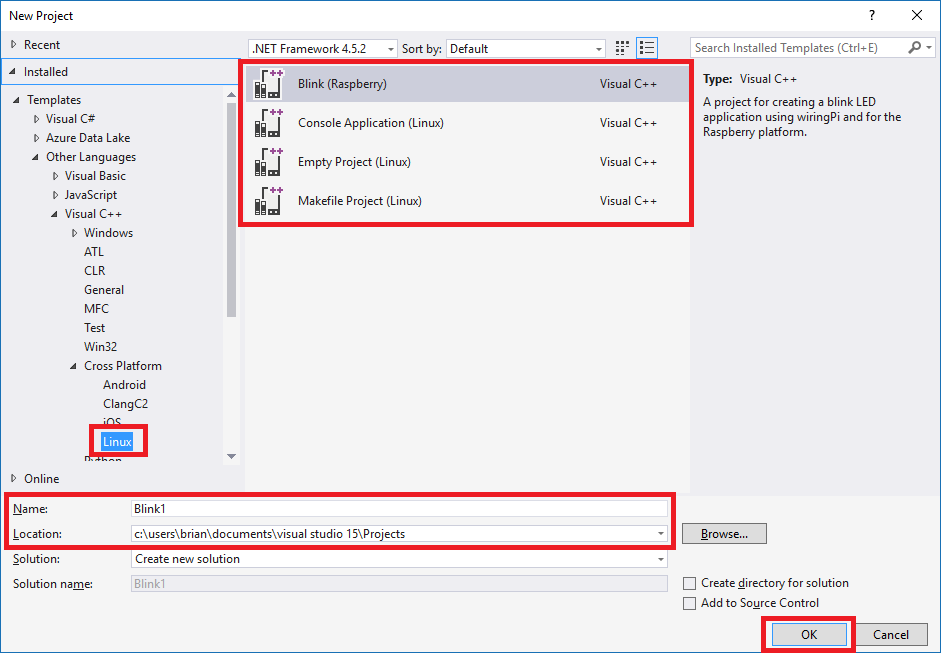
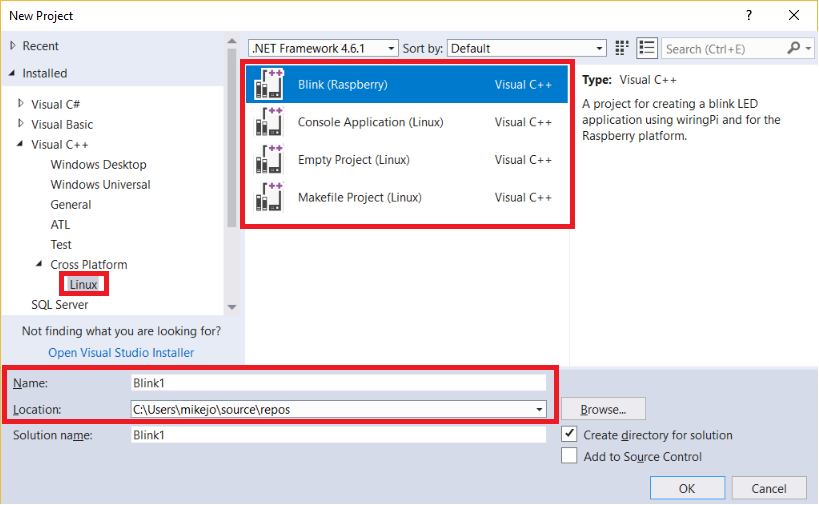
fixed outdated screenshot, instruction for linux tools

diff --git a/docs/linux/create-a-new-linux-project.md b/docs/linux/create-a-new-linux-project.md
@@ -1,7 +1,7 @@
 ---
 title: "Create a New Linux Project | Microsoft Docs"
 ms.custom: ""
-ms.date: "11/16/2016"
+ms.date: "08/16/2017"
 ms.reviewer: ""
 ms.suite: ""
 ms.technology:  
@@ -33,7 +33,7 @@ translation.priority.ht:
 To create a new Linux project in Visual Studio, do the following:
 
 1. Select **File > New Project** in Visual Studio, or press **Ctrl + Shift + N**.
-1. Select the **Templates > Other Languages > Visual C++ > Cross Platform > Linux** node and then select the project type you would like to create, enter a Name/Location, and click OK.
+1. Select the **Visual C++ > Cross Platform > Linux** node and then select the project type you would like to create, enter a Name/Location, and click OK.
 
    ![New Linux Project](media/newproject.png)
 
